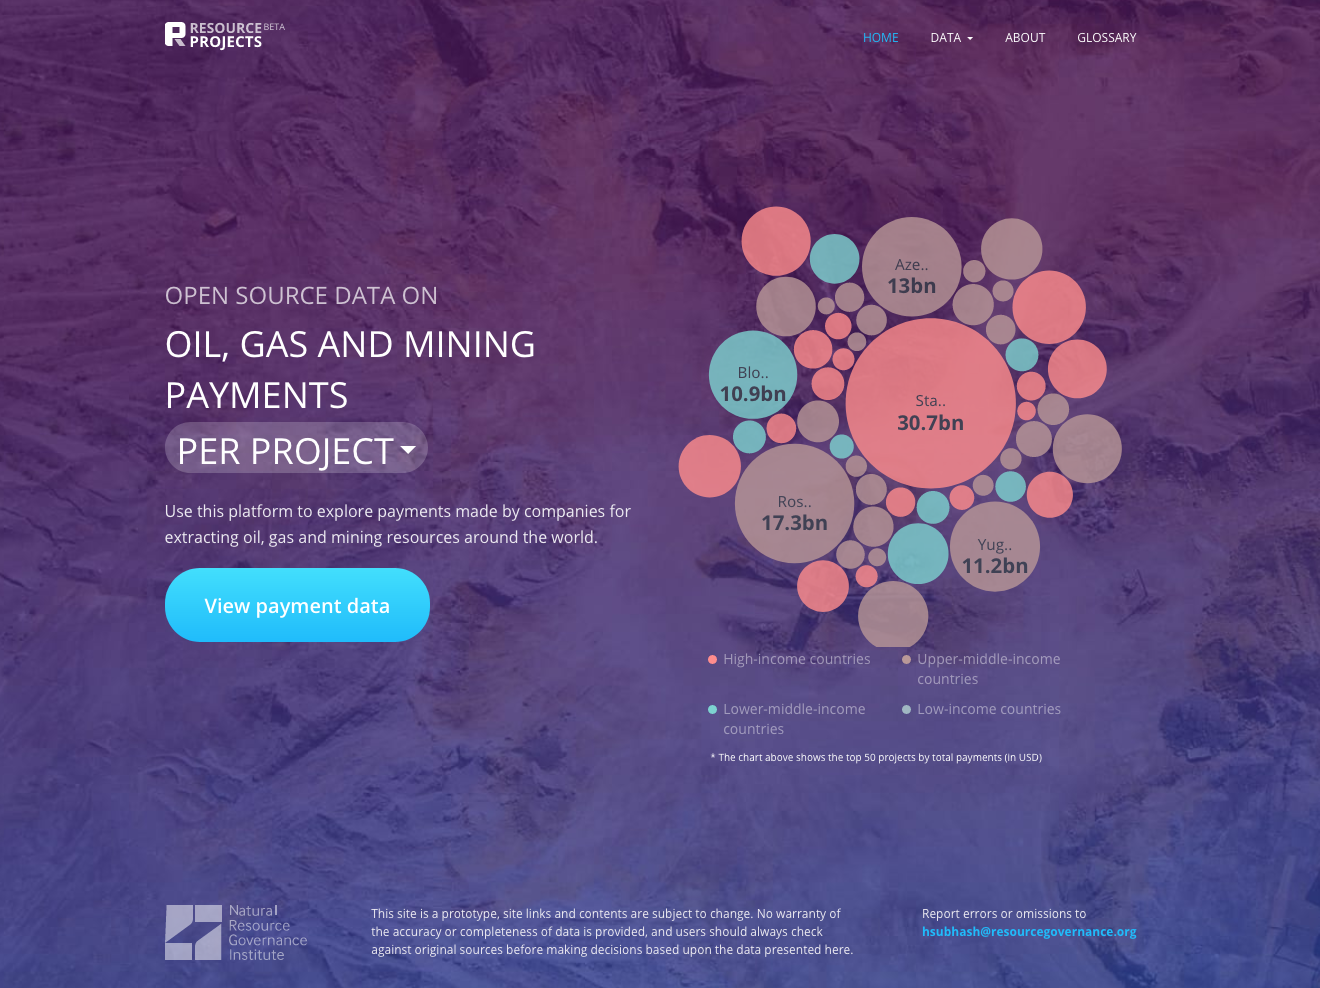
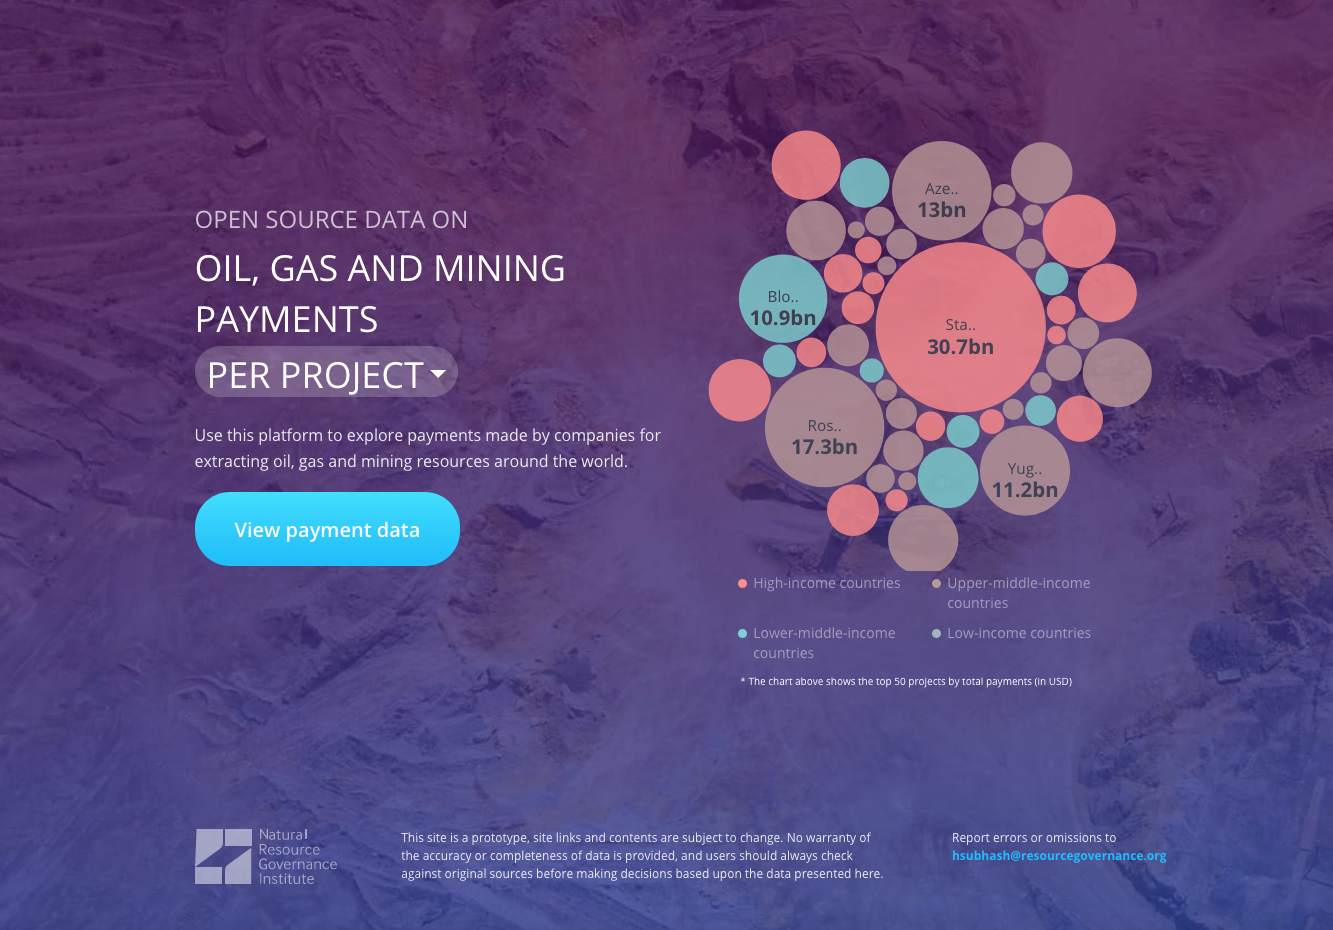
updated background

diff --git a/RP_intro/RP_intro.html b/RP_intro/RP_intro.html
@@ -447,7 +447,7 @@ document.getElementsByTagName('head')[0].appendChild(style);
 
     <link href="https://fonts.googleapis.com/css?family=Open+Sans|Roboto" rel="stylesheet">
     <script>
[2 lines of base64/hex data omitted]
     </script>
 </head>
 <body>
@@ -460,7 +460,7 @@ document.getElementsByTagName('head')[0].appendChild(style);
     <h3 class="date">2018-05-22</h3>
 </section>
 
-<section id="section" class="slide level2" data-background="./assets/images/home_page.png">
+<section id="section" class="slide level2" data-background-image="https://cdn.rawgit.com/NRGI/RP-Outreach/f2da482a/assets/images/home_page.png">
 <h2></h2>
 </section>
 <section id="objective" class="slide level2">

diff --git a/RP_intro/header.html b/RP_intro/header.html
@@ -1,5 +1,5 @@
 <link href="https://fonts.googleapis.com/css?family=Open+Sans|Roboto" rel="stylesheet">
 <script>
[2 lines of base64/hex data omitted]
 </script>
 
